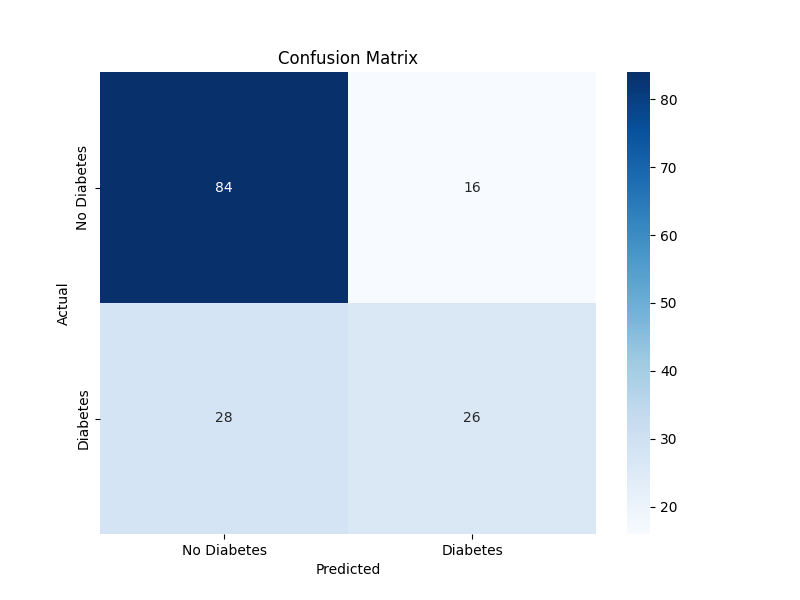
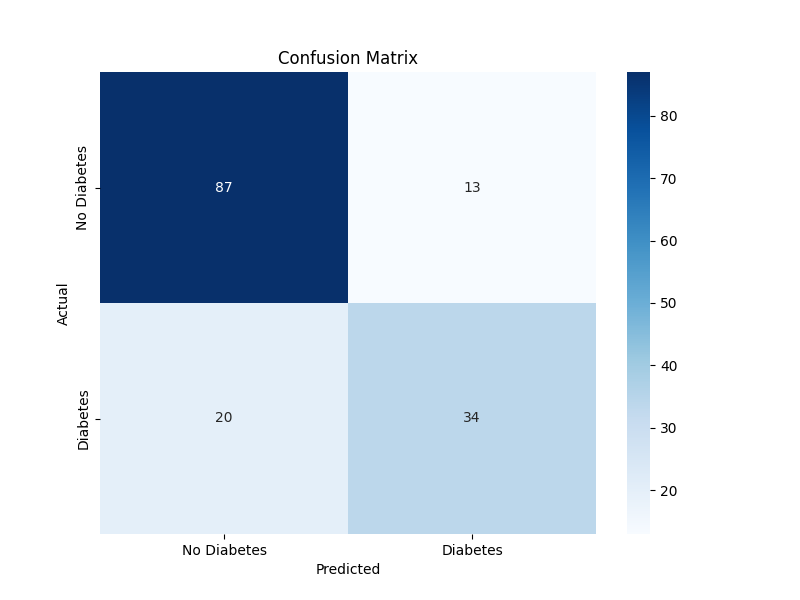
Experiment 1: Run pipeline with RandomForest

diff --git a/train.py b/train.py
@@ -1,5 +1,5 @@
 import pandas as pd
-from sklearn.linear_model import LogisticRegression
+from sklearn.ensemble import RandomForestClassifier 
 import joblib
 import os
 
@@ -11,7 +11,7 @@ X_train = train_df.drop('Outcome', axis=1)
 y_train = train_df['Outcome']
 
 # Train the model (Logistic Regression for the main pipeline)
-model = LogisticRegression(solver='liblinear', random_state=42)
+model = RandomForestClassifier(random_state=42)
 model.fit(X_train, y_train)
 
 # Ensure the models directory exists and save the trained model
